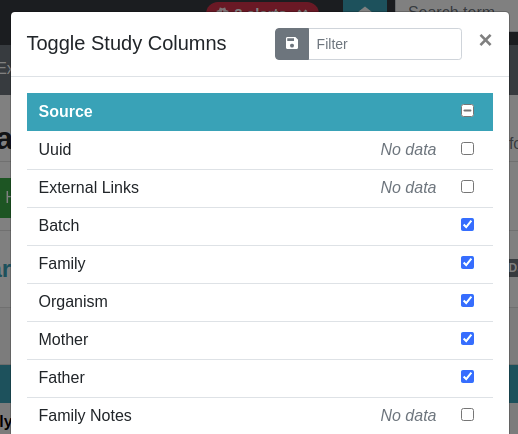
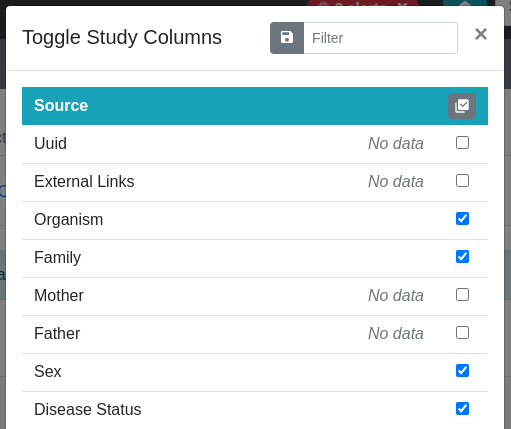
cleanup and prepare v0.14.1 release (#1826)

diff --git a/ontologyaccess/templates/ontologyaccess/list.html b/ontologyaccess/templates/ontologyaccess/list.html
@@ -14,12 +14,10 @@
       width: 170px;
       white-space: nowrap;
     }
-
     table#sodar-oa-list-table thead tr th:nth-child(6),
     table#sodar-oa-list-table tbody tr td:nth-child(6) {
       width: 75px;
     }
-
     /* Responsive modifications */
     @media screen and (max-width: 1200px) {
       table#sodar-oa-list-table thead tr th:nth-child(5),
@@ -27,14 +25,12 @@
         display: none;
       }
     }
-
     @media screen and (max-width: 1100px) {
       table#sodar-oa-list-table thead tr th:nth-child(4),
       table#sodar-oa-list-table tbody tr td:nth-child(4) {
         display: none;
       }
     }
-
     @media screen and (max-width: 650px) {
       table#sodar-oa-list-table thead tr th:nth-child(3),
       table#sodar-oa-list-table tbody tr td:nth-child(3) {
@@ -44,20 +40,17 @@
   </style>
 {% endblock css %}
 
-
 {% block projectroles %}
 
 <div class="row sodar-subtitle-container bg-white sticky-top">
   <h2><i class="iconify" data-icon="mdi:tags"></i> Ontology Access</h2>
-
   <a role="button" class="btn btn-primary ml-auto"
      href="{% url 'ontologyaccess:obo_import' %}">
-    <i class="iconify" data-icon="mdi:upload"></i> Import  Ontology
+    <i class="iconify" data-icon="mdi:upload"></i> Import Ontology
   </a>
 </div>
 
 <div class="container-fluid sodar-page-container">
-
   {% if object_list.count > 0 %}
     <div class="card" id="sodar-oa-alert-list">
       <div class="card-header">
@@ -109,7 +102,6 @@
         </table>
       </div>
     </div>
-
   {% else %} {# if object_list.count == 0 #}
     <div class="container-fluid">
       <div class="alert alert-info" role="alert">
@@ -117,7 +109,6 @@
       </div>
     </div>
   {% endif %}
-
 </div>
 
 {% endblock projectroles %}

diff --git a/samplesheets/templates/samplesheets/_details_card.html b/samplesheets/templates/samplesheets/_details_card.html
@@ -19,11 +19,9 @@
   table#sodar-ss-details-table tr td:nth-child(2) {
     width: 220px;
   }
-
   table#sodar-ss-details-table tr td:nth-child(3) {
     width: 110px;
   }
-
   /* Responsive modifications */
   @media screen and (max-width: 800px) {
     table#sodar-ss-details-table tr th:nth-child(2) {
@@ -37,11 +35,11 @@
 
 {% if not investigation %}
   <div class="card-body bg-faded font-italic text-center">
-    <p>No sample sheets available</p>
+    <p>No sample sheets available.</p>
   </div>
 {% elif investigation and not investigation.irods_status %}
   <div class="card-body bg-faded font-italic text-center">
-    <p>Sample sheets available, sample repository not created in iRODS</p>
+    <p>Sample sheets available, sample repository not created in iRODS.</p>
   </div>
 {% elif investigation and can_view_sheet %}
   <!-- Irodsbackend -->

diff --git a/samplesheets/templates/samplesheets/irods_requests.html b/samplesheets/templates/samplesheets/irods_requests.html
@@ -217,7 +217,7 @@
     {% if is_contributor %}
       You don't have active iRODS delete requests for this project.
     {% else %}
-      No iRODS delete requests have been found for the sample sheets in this project.
+      No iRODS delete requests have been found for this project.
     {% endif %}
   </div>
 {% endif %}

diff --git a/ontologyaccess/templates/ontologyaccess/obo_import_form.html b/ontologyaccess/templates/ontologyaccess/obo_import_form.html
@@ -11,7 +11,6 @@
     input#id_term_url {
       font-family: monospace;
     }
-
     div.alert ul {
       margin-bottom: 0;
     }

diff --git a/config/settings/base.py b/config/settings/base.py
@@ -347,7 +347,7 @@ REST_FRAMEWORK = {
 # Enable LDAP if configured
 ENABLE_LDAP = env.bool('ENABLE_LDAP', False)
 ENABLE_LDAP_SECONDARY = env.bool('ENABLE_LDAP_SECONDARY', False)
-
+LDAP_DEBUG = env.bool('LDAP_DEBUG', False)
 # Alternative domains for detecting LDAP access by email address
 LDAP_ALT_DOMAINS = env.list('LDAP_ALT_DOMAINS', None, default=[])
 
@@ -356,6 +356,8 @@ if ENABLE_LDAP:
     import ldap
     from django_auth_ldap.config import LDAPSearch
 
+    if LDAP_DEBUG:
+        ldap.set_option(ldap.OPT_DEBUG_LEVEL, 255)
     # Default values
     LDAP_DEFAULT_CONN_OPTIONS = {ldap.OPT_REFERRALS: 0}
     LDAP_DEFAULT_ATTR_MAP = {
@@ -608,7 +610,7 @@ SITE_INSTANCE_TITLE = env.str('SITE_INSTANCE_TITLE', 'CUBI SODAR')
 
 
 # General API settings
-SODAR_API_DEFAULT_VERSION = '0.14.0'
+SODAR_API_DEFAULT_VERSION = '0.14.1'
 SODAR_API_ALLOWED_VERSIONS = [
     '0.7.0',
     '0.7.1',
@@ -628,6 +630,7 @@ SODAR_API_ALLOWED_VERSIONS = [
     '0.13.3',
     '0.13.4',
     '0.14.0',
+    '0.14.1',
 ]
 SODAR_API_MEDIA_TYPE = 'application/vnd.bihealth.sodar+json'
 SODAR_API_DEFAULT_HOST = env.url(

diff --git a/samplesheets/tests/test_tasks_celery_taskflow.py b/samplesheets/tests/test_tasks_celery_taskflow.py
@@ -27,7 +27,7 @@ from samplesheets.tasks_celery import (
     CACHE_UPDATE_EVENT,
 )
 from samplesheets.tests.test_io import SampleSheetIOMixin, SHEET_DIR
-from samplesheets.tests.test_views import TestSheetRemoteSyncBase
+from samplesheets.tests.test_views import SheetRemoteSyncTestBase
 from samplesheets.tests.test_views_taskflow import (
     SampleSheetTaskflowMixin,
 )
@@ -154,7 +154,7 @@ class TestUpdateProjectCacheTask(
         self.assertEqual(ProjectEvent.objects.count(), 3)
 
 
-class TestSheetRemoteSyncTask(TestSheetRemoteSyncBase):
+class TestSheetRemoteSyncTask(SheetRemoteSyncTestBase):
     """Tests for periodic sample sheet sync task"""
 
     def setUp(self):

diff --git a/samplesheets/tests/test_views.py b/samplesheets/tests/test_views.py
@@ -1629,7 +1629,7 @@ class TestIrodsDataRequestListView(
         self.assertEqual(len(response.context['object_list']), 0)
 
 
-class TestSheetRemoteSyncBase(
+class SheetRemoteSyncTestBase(
     ProjectMixin,
     RoleMixin,
     RoleAssignmentMixin,
@@ -1694,7 +1694,7 @@ class TestSheetRemoteSyncBase(
         )
 
 
-class TestSheetRemoteSyncView(TestSheetRemoteSyncBase):
+class TestSheetRemoteSyncView(SheetRemoteSyncTestBase):
     """Tests for SheetRemoteSyncView"""
 
     def test_sync(self):

diff --git a/docs_manual/source/conf.py b/docs_manual/source/conf.py
@@ -26,7 +26,7 @@ copyright = '2018-2023, BIH Core Unit Bioinformatics'
 author = 'BIH Core Unit Bioinformatics'
 
 # The full version, including alpha/beta/rc tags
-release = '0.14.1-WIP'
+release = '0.14.1'
 
 
 # -- General configuration ---------------------------------------------------

diff --git a/samplesheets/plugins.py b/samplesheets/plugins.py
@@ -537,7 +537,6 @@ class ProjectAppPlugin(
                 )
             )
 
-    # TODO: Add tests
     def validate_form_app_settings(self, app_settings, project=None, user=None):
         """
         Validate app settings form data and return a dict of errors.

diff --git a/docs_manual/source/app_samplesheets_edit.rst b/docs_manual/source/app_samplesheets_edit.rst
@@ -379,9 +379,12 @@ variables. The modal content varies based on the column type, but all share a
 few common elements:
 
 - Configuration copy/paste elements in the top right corner
-- The *Editable* checkbox for enabling or disabling editing for this column
-- The *Cancel* and *Update* buttons for committing the configuration change or
-  cancelling it.
+- The :guilabel:`Editable` checkbox for enabling or disabling editing for this
+  column. This is disabled by default. When disabled, users are only able to
+  enter data in mandatory fields such as material names or process protocols
+  when inserting new rows.
+- The :guilabel:`Cancel` and :guilabel:`Update` buttons for committing the
+  configuration change or cancelling it.
 
 Upon first importing or creating the sample sheets, the initial type and
 configuration of a column is automatically determined by SODAR. The modal

diff --git a/CHANGELOG.rst b/CHANGELOG.rst
@@ -5,8 +5,8 @@ Changelog for the SODAR project. Loosely follows the
 `Keep a Changelog <http://keepachangelog.com/en/1.0.0/>`_ guidelines.
 
 
-Unreleased
-==========
+v0.14.1 (2023-12-12)
+====================
 
 Added
 -----
@@ -50,6 +50,9 @@ Fixed
 - **Landingzones**
     - No wait for async ``CurrentUserRetrieveAPIView`` call result (#1732, #1807)
     - ``BaseLandingZoneStatusTask.set_status()`` failure with concurrent sheet replacing (#1839)
+- **Samplesheets**
+    - ``ColumnToggleModal`` study checkbox states rendered under assay (#1848)
+    - ``ColumnToggleModal`` group toggle not updating checkboxes in UI (#1849)
 - **Taskflowbackend**
     - ``project_create`` timeline event user reference (bihealth/sodar_core#1301, #1819)
     - Incorrect write access messages in ``landing_zone_move`` when validating only (#1845)

diff --git a/docs_manual/source/app_samplesheets_browse.rst b/docs_manual/source/app_samplesheets_browse.rst
@@ -145,10 +145,10 @@ displayed in the screenshot below.
 
     Table header with column visibility toggle button highlighted
 
-Clicking the button opens a modal in which you can hide or unhide columns by
-clicking the accompanying check boxes. Columns can be toggled individually
-or by an entire node. The node name columns, or protocol columns in the case of
-unnamed processes, will always be displayed.
+Clicking the button opens a modal in which you can hide or unhide columns using
+the accompanying checkboxes. Columns can be toggled individually or for an
+entire material or process. Name columns, or protocol columns in the case of
+unnamed processes, will always be displayed and can't be hidden.
 
 .. figure:: _static/app_samplesheets/column_toggle_modal.png
     :align: center
